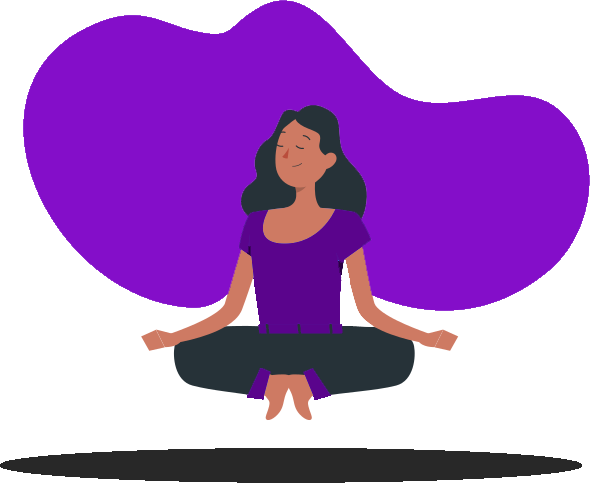
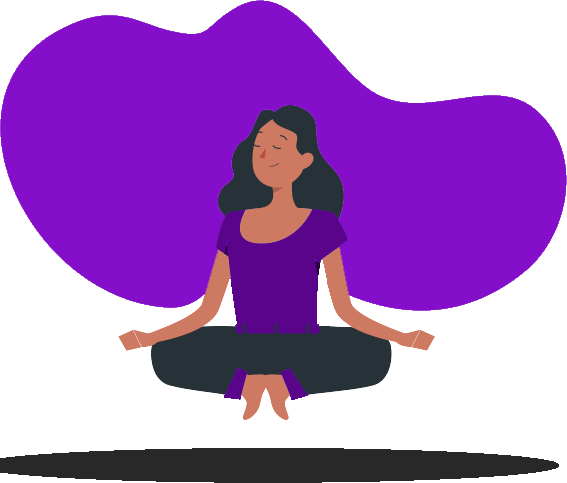
Responsividade

diff --git a/index.html b/index.html
@@ -31,16 +31,17 @@
             <p>Quer alavancar o seu negócio e conquistar resultados extraordinários? Nós temos a estratégia certa para você! Ao se inscrever em nossa newsletter, você recebe dicas exclusivas, insights de marketing, e atualizações sobre as melhores práticas para impulsionar sua marca online!<br />
             <br />
             Inscreva-se agora e comece a transformar sua presença online.</p>
-            <form>
-                <input type="text" placeholder="Nome">
-                <input type="text" placeholder="E-mail">
-                <input type="submit" value="Enviar >">
-            </form>
+            
         </aside>
 
         <article>
             <img src="images/ilustracao1.png" alt="Ilustração">
         </article>
     </main>
+    <form>
+        <input type="text" placeholder="Nome">
+        <input type="text" placeholder="E-mail">
+        <input type="submit" value="Enviar">
+    </form>
 </body>
 </html>

diff --git a/styles/style.css b/styles/style.css
@@ -32,14 +32,20 @@ main {
     display: flex;
     flex-direction: row;
     margin-top: 50px;
-    align-items: center;
+    align-items: start;
     justify-content: center;
+
 }
 
+
+
 h2 {
-    font-size: 56px;
+    font-size: 5vw;
     line-height: 10px;
     font-family: poppinsmedium;
+    white-space: nowrap; 
+
+    text-overflow: ellipsis; 
 }
 
 #subscribe {
@@ -52,8 +58,10 @@ p {
     font-family: poppinslight;
 }
 
+
+
 img {
-    width: 580;
+    width: 40vw;
     padding-left: 50px;
 }
 
@@ -81,6 +89,7 @@ form {
     display: flex;
     flex-direction: column;
     width: 70%;
+    margin: none;
 }
 
 input {

diff --git a/styles/media.css b/styles/media.css
@@ -5,8 +5,18 @@
     }
 
     main {
-        flex-direction: column;
+        flex-direction: column-reverse;
+        align-items: center;
+        justify-content: center;
         margin-top: 5px;
+    }
+
+    li {
+        margin: 7px;
+    }
+    
+    #button {
+        margin: auto;
     }
 
     h2 {
@@ -20,10 +30,13 @@
 
     input {
         align-self: center;
+        width: 80%;
     }
 
     img {
-        display: none;
+        width: 90vw;
+        margin: auto;
+        padding-left: 50px;    
     }
 
     main {
